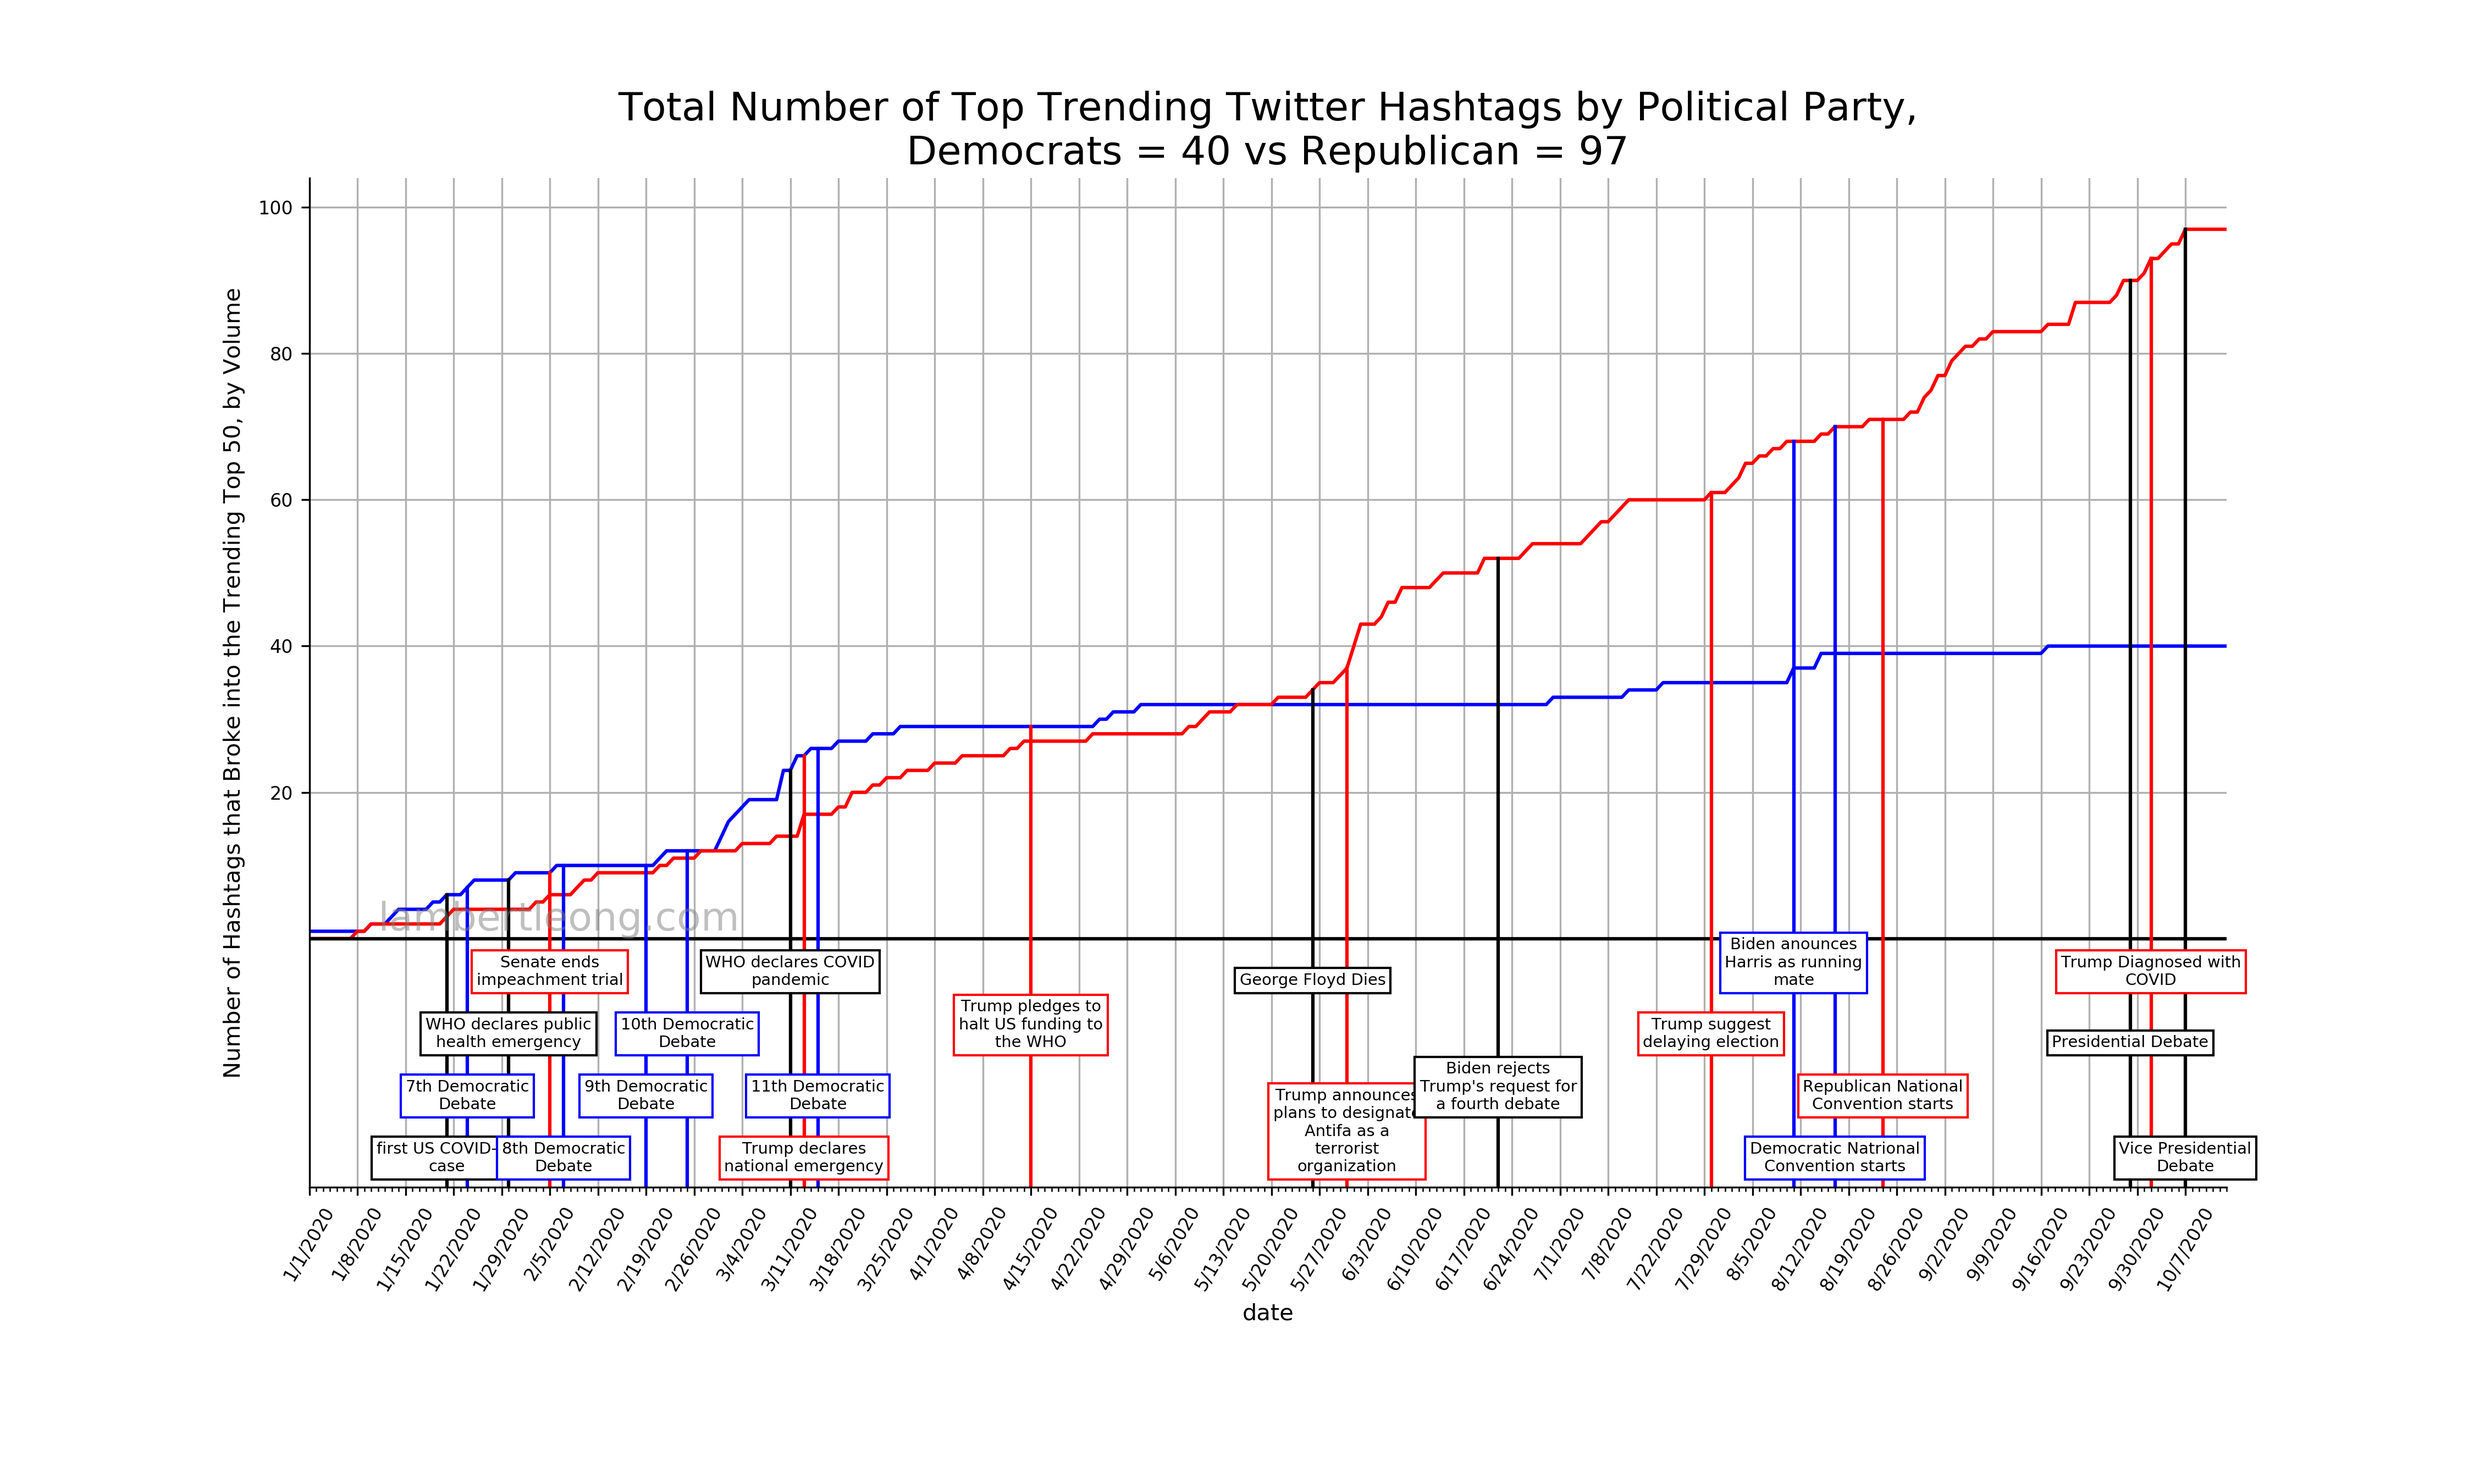
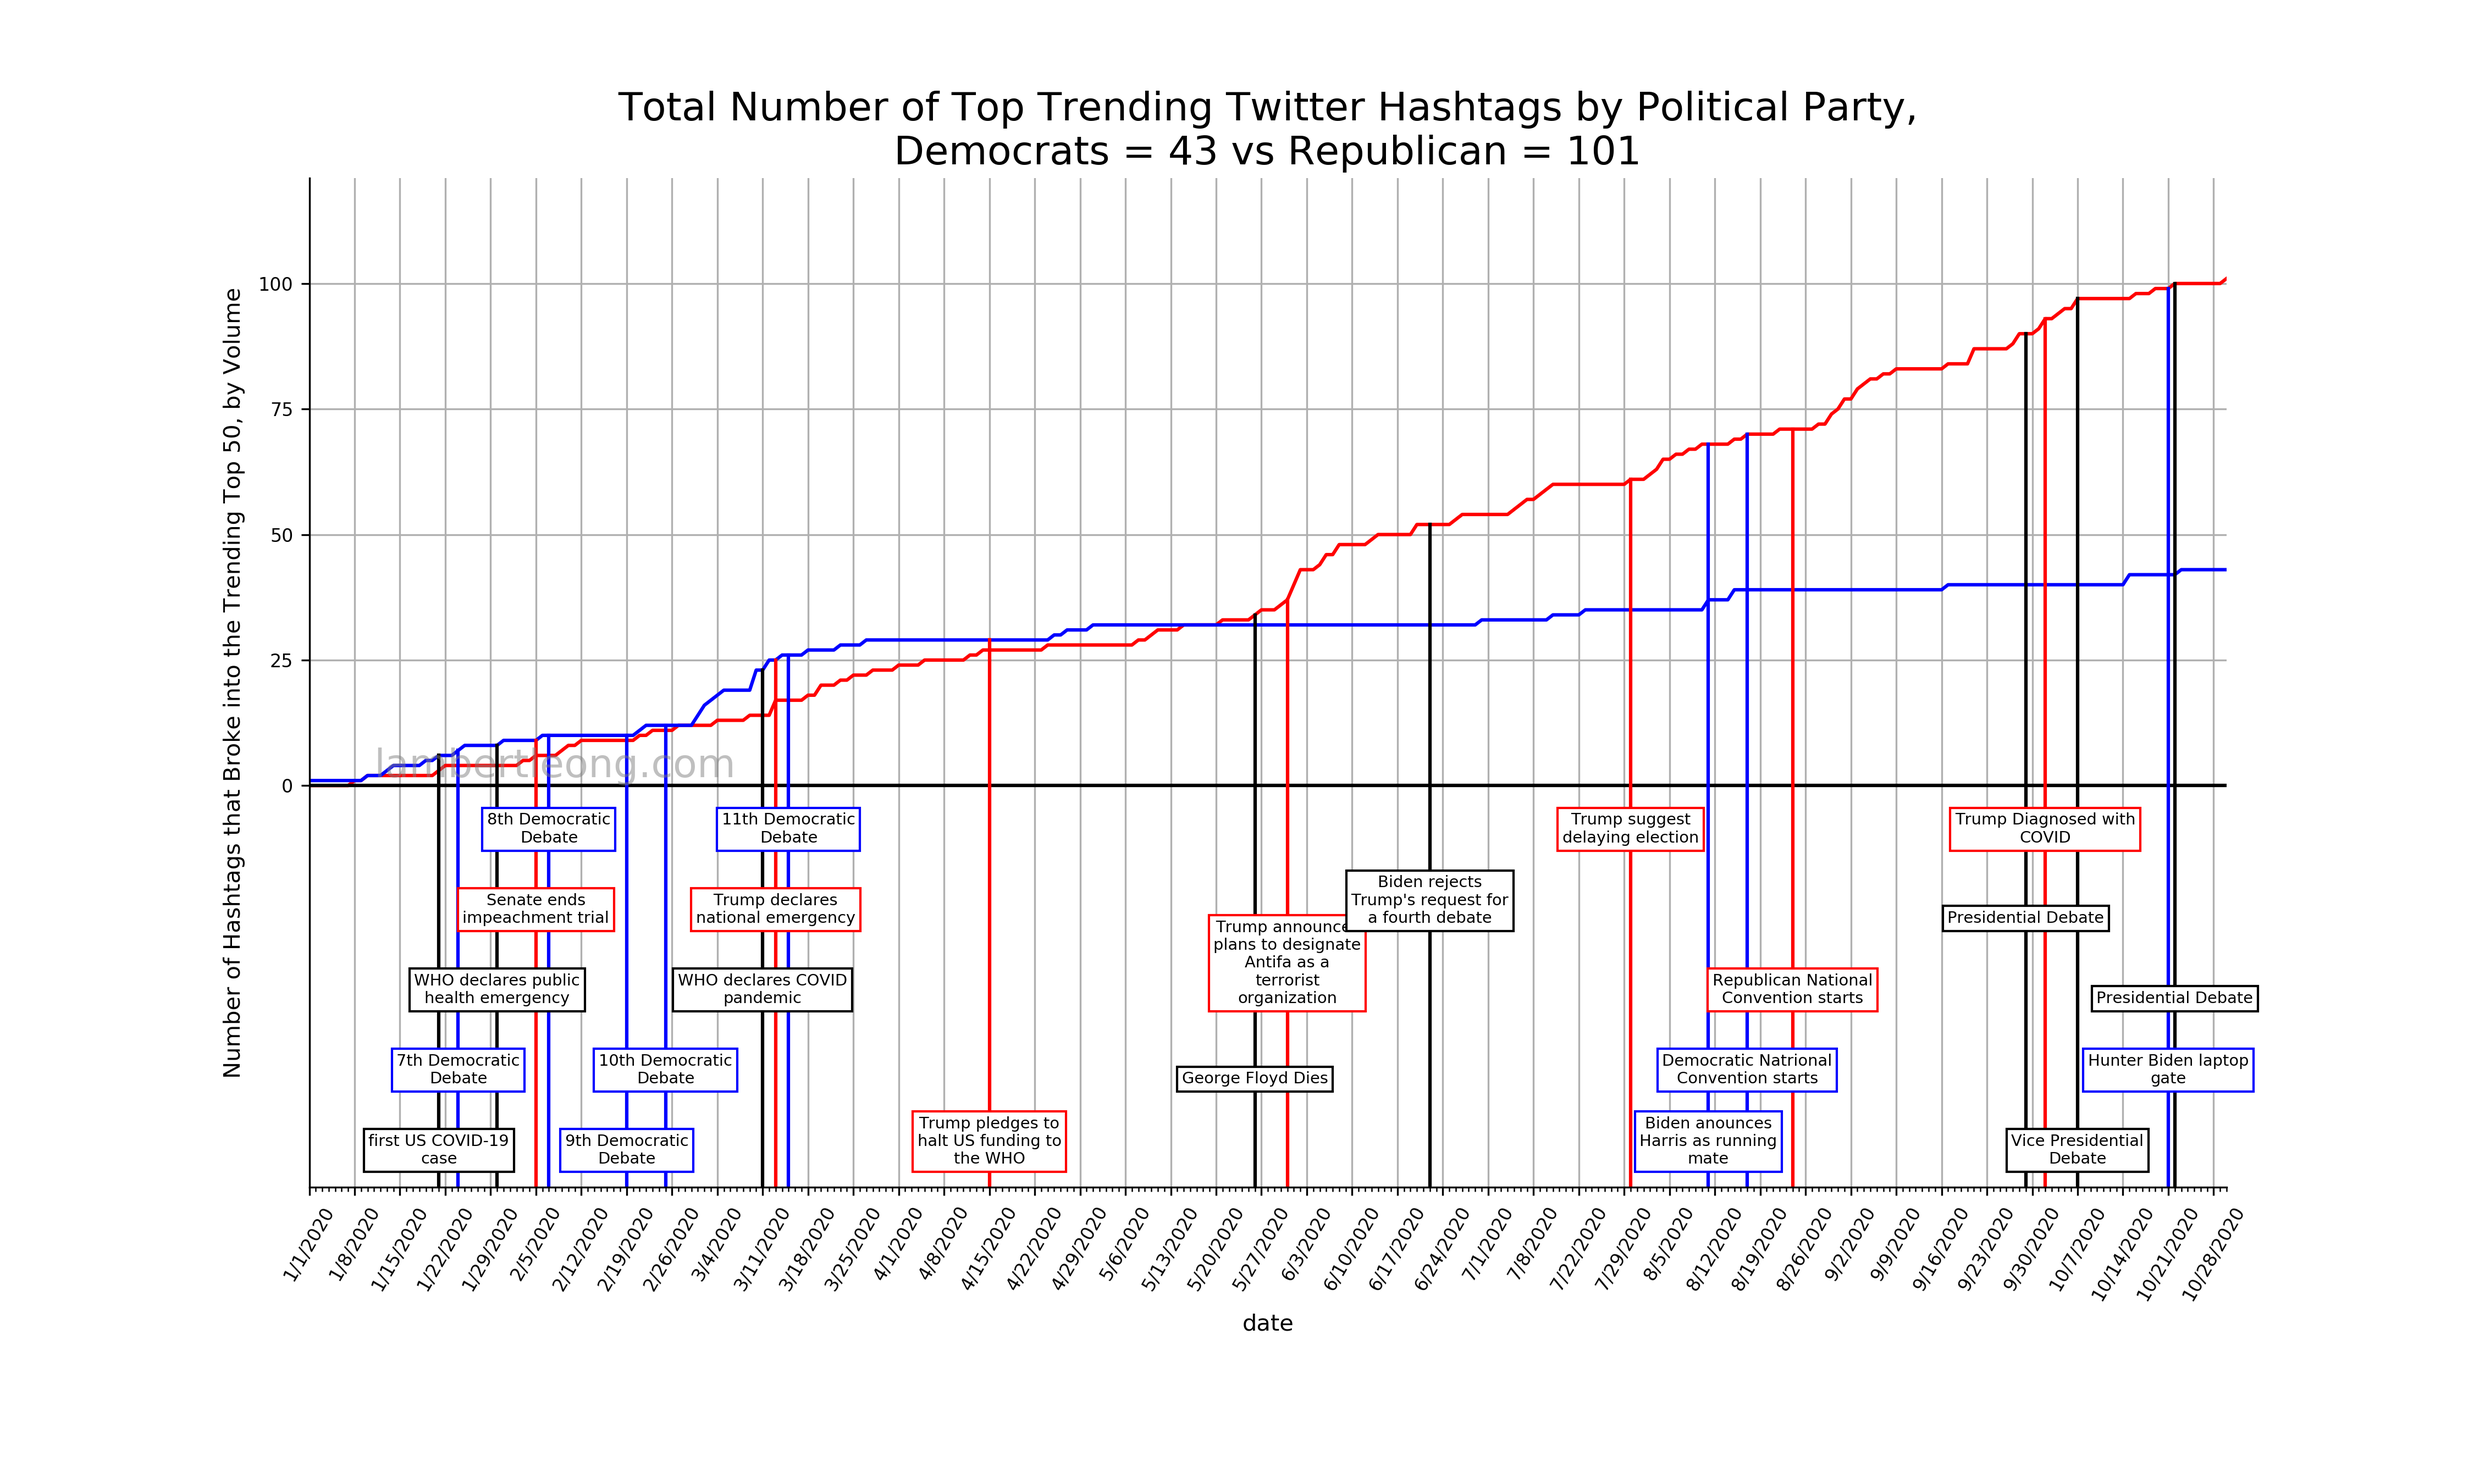
election tweet update

diff --git a/_posts/thoughts/2020-09-12-election-2020-twitter-trends.md b/_posts/thoughts/2020-09-12-election-2020-twitter-trends.md
@@ -30,12 +30,44 @@ tags:
 ---
 __Here is the data, make your own conclusions.__
 
-The 2016 election showed us the effects that social media had on the presidential election. Here we 
+__TLDR__
+* Social media data is interesting and may indicate election consensus
+
+
+Oscar Wilde once wrote “The only thing worse than being talked about is not being talked about”. This is
+along the idea that any press is good press and with Trump in 2016 this seemed to be the case.  The 2016 election showed
+ us the effects that social media had on Who becomes president and runs the country. Here we 
 can look at trending twitter hashtags as they relate to one of the two major political parties as we near
-the 2020 election. It is believed, by some, that any press is good press and this may be true for
-twitter trends as well.  
+the 2020 election.  
+
+We gathered the top 50 trending topics on Twitter each day for the past year. These topics are presented
+in the form of hashtages (#) and trending words, terms, or phrases.  With this data we can invesitgate
+how many days a topic was trending as well as the changes in volume of that topic.  Tweet data was 
+provided by [@igetthetags](https://twitter.com/igetthetags) ![Twitter][1.2].
 
 
+| Tweets Containing: 	|  Volume 	|
+|-------------------	|-------:	|
+|        Biden       	| 1,042,926 	|
+|       Harris       	|  167,056 	|
+|        Trump       	| 7,263,062 	|
+|        Pence       	|  268,170 	|
+
+<br>
+We take no political side and remain objective in our exploration of this data.  In addition, no sentiment
+analysis was done on all the tweets to determine if they were for or against a particular political party.
+Hence, we reiterate that any press is good press. We used particular search terms to classify a trending
+topic into one of two classes; republican or democrat. A hashtag is categorized as democratic if it 
+contains any of the following words: <span style="color:blue">'joebiden', 'biden', 'kamalaharris',
+'harris', 'democrat'</span>.  A hashtag is categorized as republican if it contains any of the 
+following words: <span style="color:red">'donaldtrump', 'trump', 'mikepence', 'pence', 'republican'</span>
+. Remember, hashtags do not contain spaces.
+
+<img  src="/assets/images/essays/election_tags/election2020_total.png" width="70%" alt="Total tweet political election volume" >
+
+The republicans appear to be ahead with respect to social media "buzz".  Several events and news have
+instigated many tweets.  Below is a timeline of important events and corresponding tweet volumes with
+respect to each party.
 
 <!--div class="zoom">
     <img id="test" src="/assets/images/essays/hawaii_covid/hawaii_covid19_case_timeline2.png" width="100%"
@@ -58,17 +90,34 @@ magnify("myimage1", 2.5);
 </script>
 <br>
 
-So what does it mean to be "Top Trending"? A hashtag is considered to be top trending if it is 
-one of the top 50 most tweeted hashtag, by volumne, for the day. A hashtag is categorized as democratic
-if it contains any of the following words: <span style="color:blue">'joebiden', 'biden', 'kamalaharris',
-'harris', 'democrat'</span>.  A hashtag is categorized as republican if it contains any of the
- following words: <span style="color:red">'donaldtrump', 'trump', 'mikepence', 'pence', 
- 'republican'</span>. Remember, hashtags do not contain spaces and the categorization search terms,
- previously listed, do not either.
+In addition to political classification, we looked at some interesting tweet topics that had high volumes.
+
+| Tweets Containing: 	|  Volume 	|
+|--------------------	|--------:	|
+| Debate             	| 3,516,092 	|
+| Election           	|  467,029 	|
+| BLM                	|   11,295 	|
+| BlackLives         	| 3,322,864 	| 
+
+<br>
+
+The corona virus or COVID19 was a difficult obstical that the world faced in 2020.  It was also 
+a polarizing topic that sparked many conversations and tweets with respect to the virus as well as 
+poitics.
+
+[__Download Final Count Chart HERE__](/assets/images/essays/election_tags/covid_tags2020.png)
+
+<img  src="/assets/images/essays/election_tags/covid_tag.gif" width="100%" alt="Covid19 corona virus tweet volume 2020" >
+
+<br>
+
+Despite your political leanings, you can admit that the data is interesting.  Social media is a powerful
+information tool and keeping a finger on the pulse of social media may prove to be beneficial.  We will
+see early November!
 
 __More Data and Interpretation Coming Soon__
 
-Data provided by [@igetthetags](https://twitter.com/igetthetags) ![Twitter][1.2]
+
 
 Charts and data update, at least, every week.
 <br>
